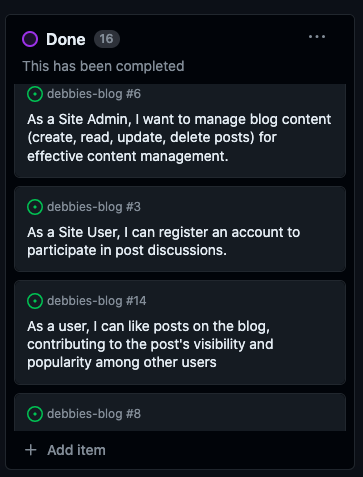
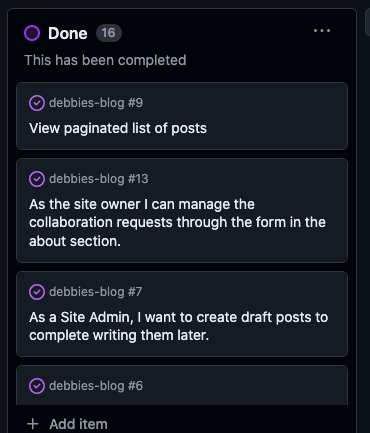
update user stories pics on readme

Changed region(s): [[0.0303, 0.03, 0.9697, 0.9908], [0.8485, 0.06, 0.9091, 0.0901], [0.9394, 0.9607, 0.9697, 0.9908]]

diff --git a/README.md b/README.md
@@ -44,6 +44,8 @@ See the Kanban board with my user stories [here](https://github.com/users/Ikayhe
 ![user stories](static/images/readme-images/user-stories1.png)
 ![user stories](static/images/readme-images/user-stories2.png)
 ![user stories](static/images/readme-images/user-stories3.png)
+![user stories](static/images/readme-images/user-stories4.png)
+
 
 
 # 3. Features 
